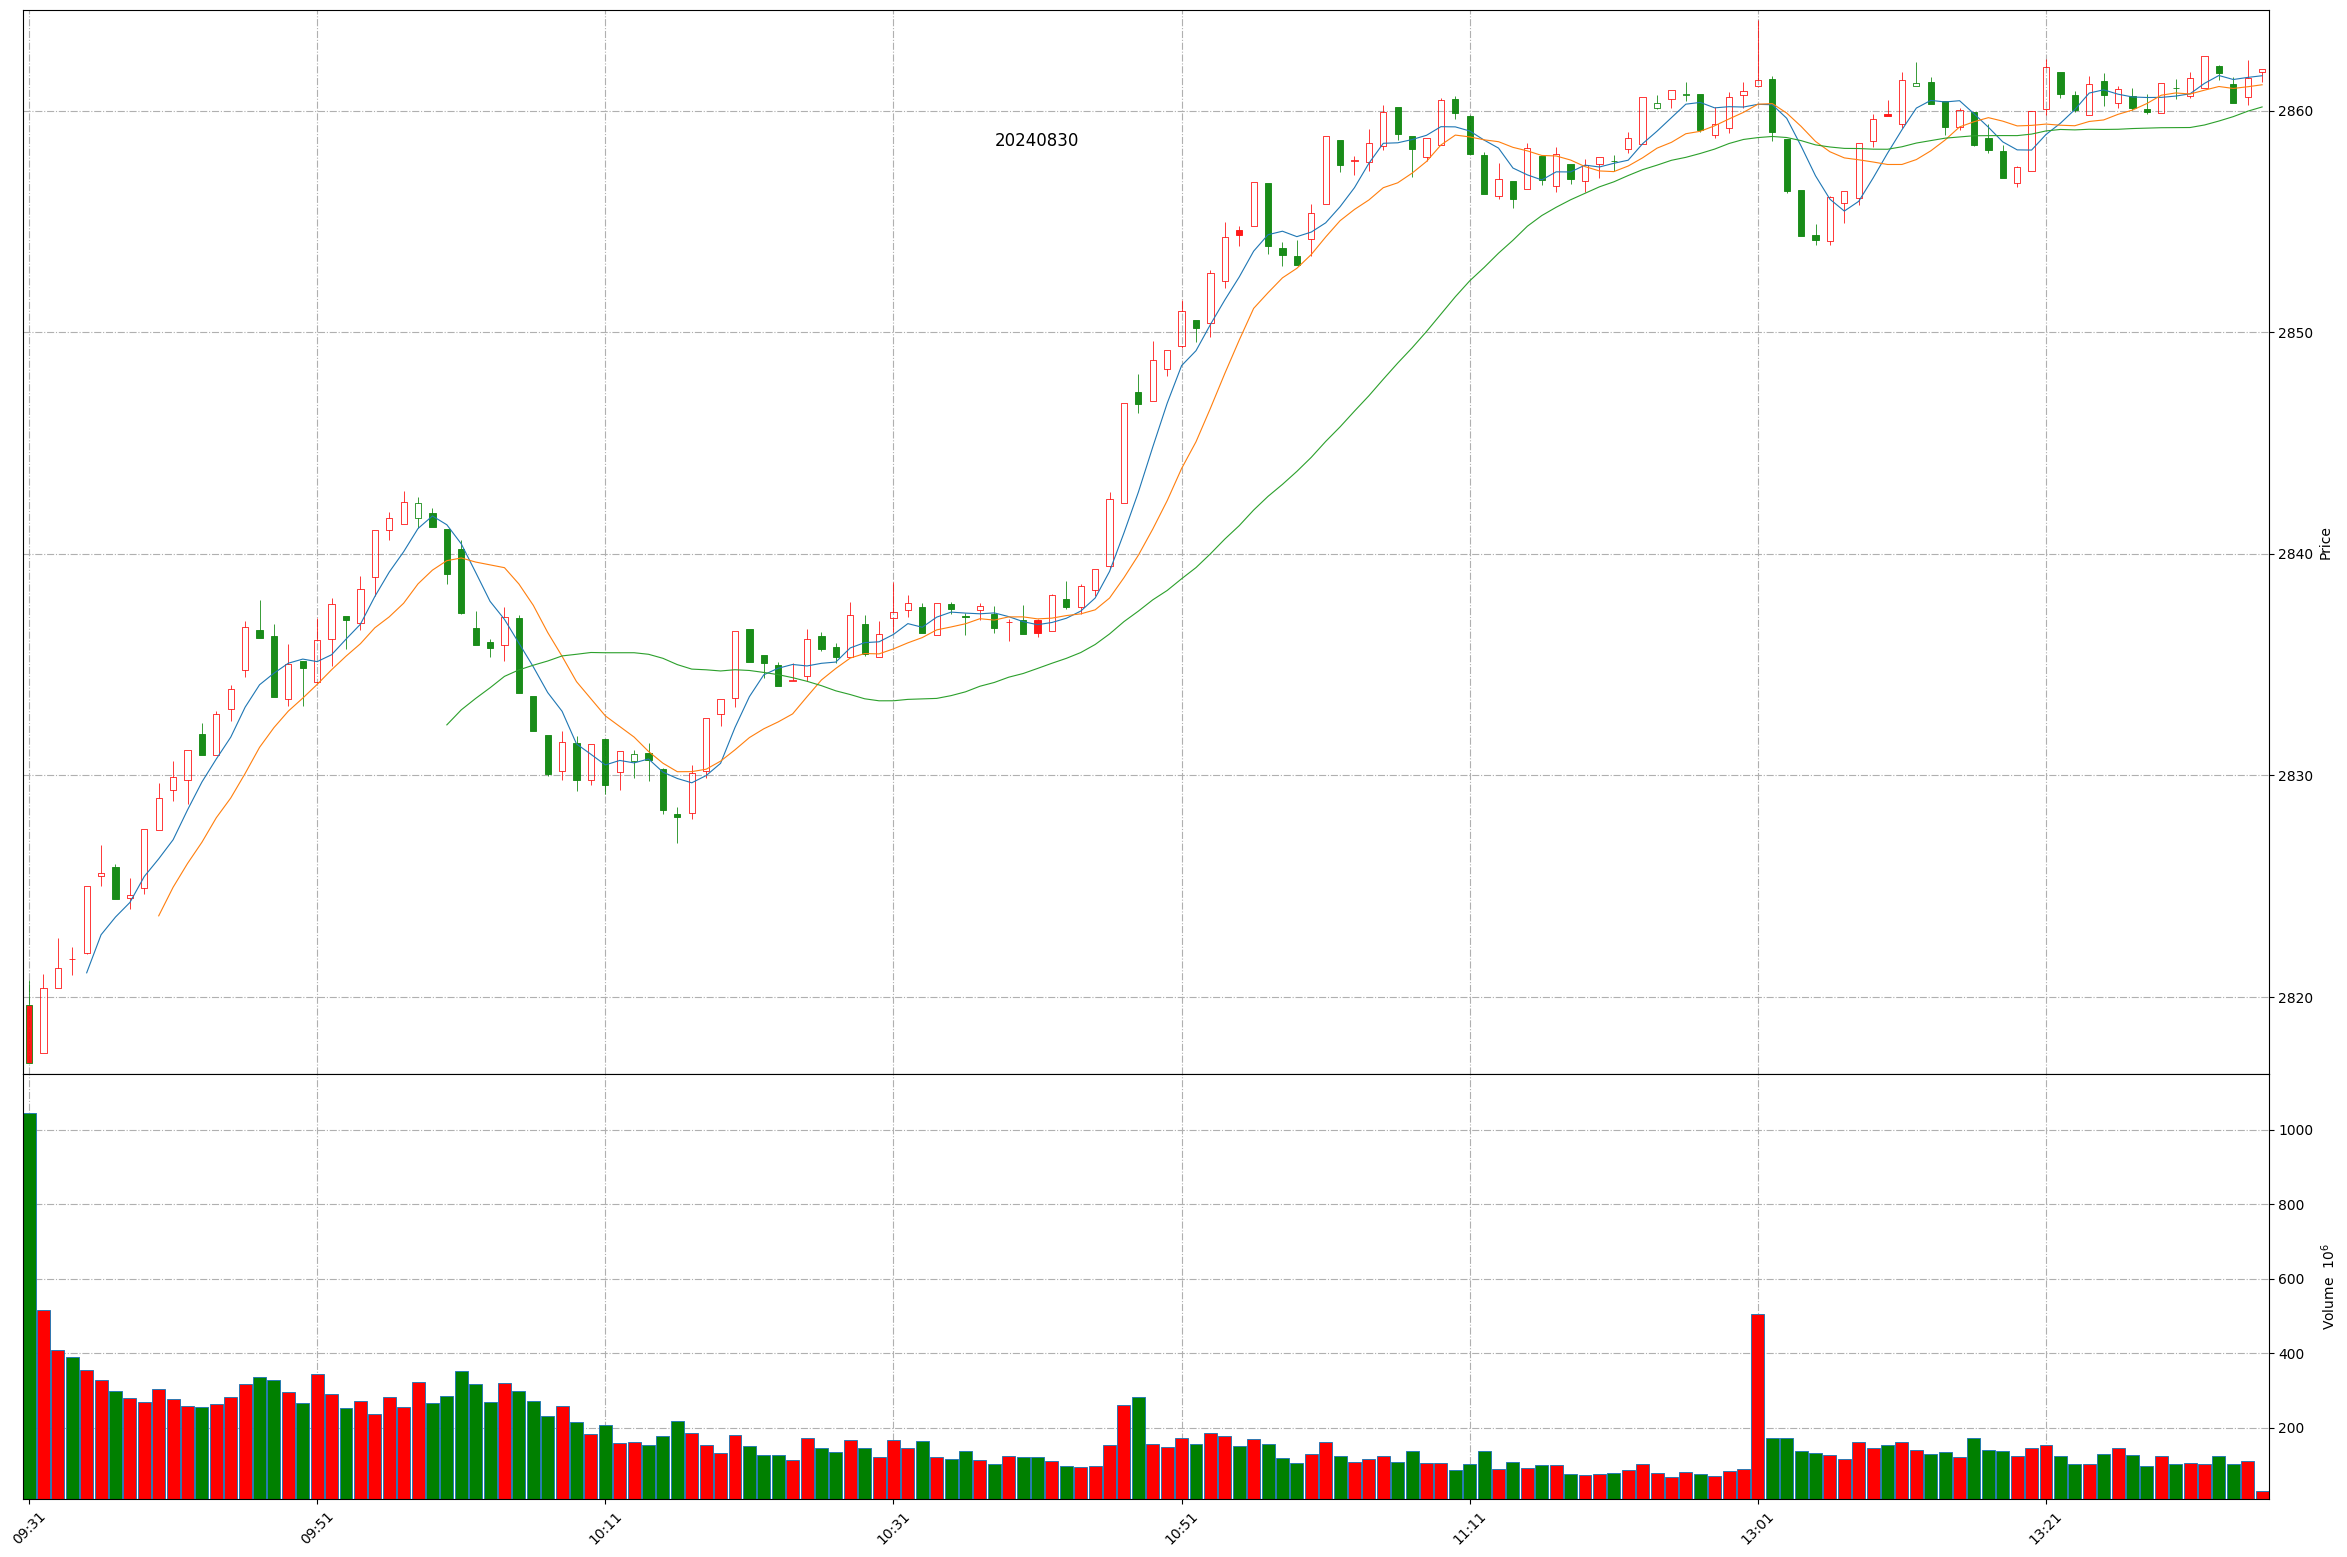
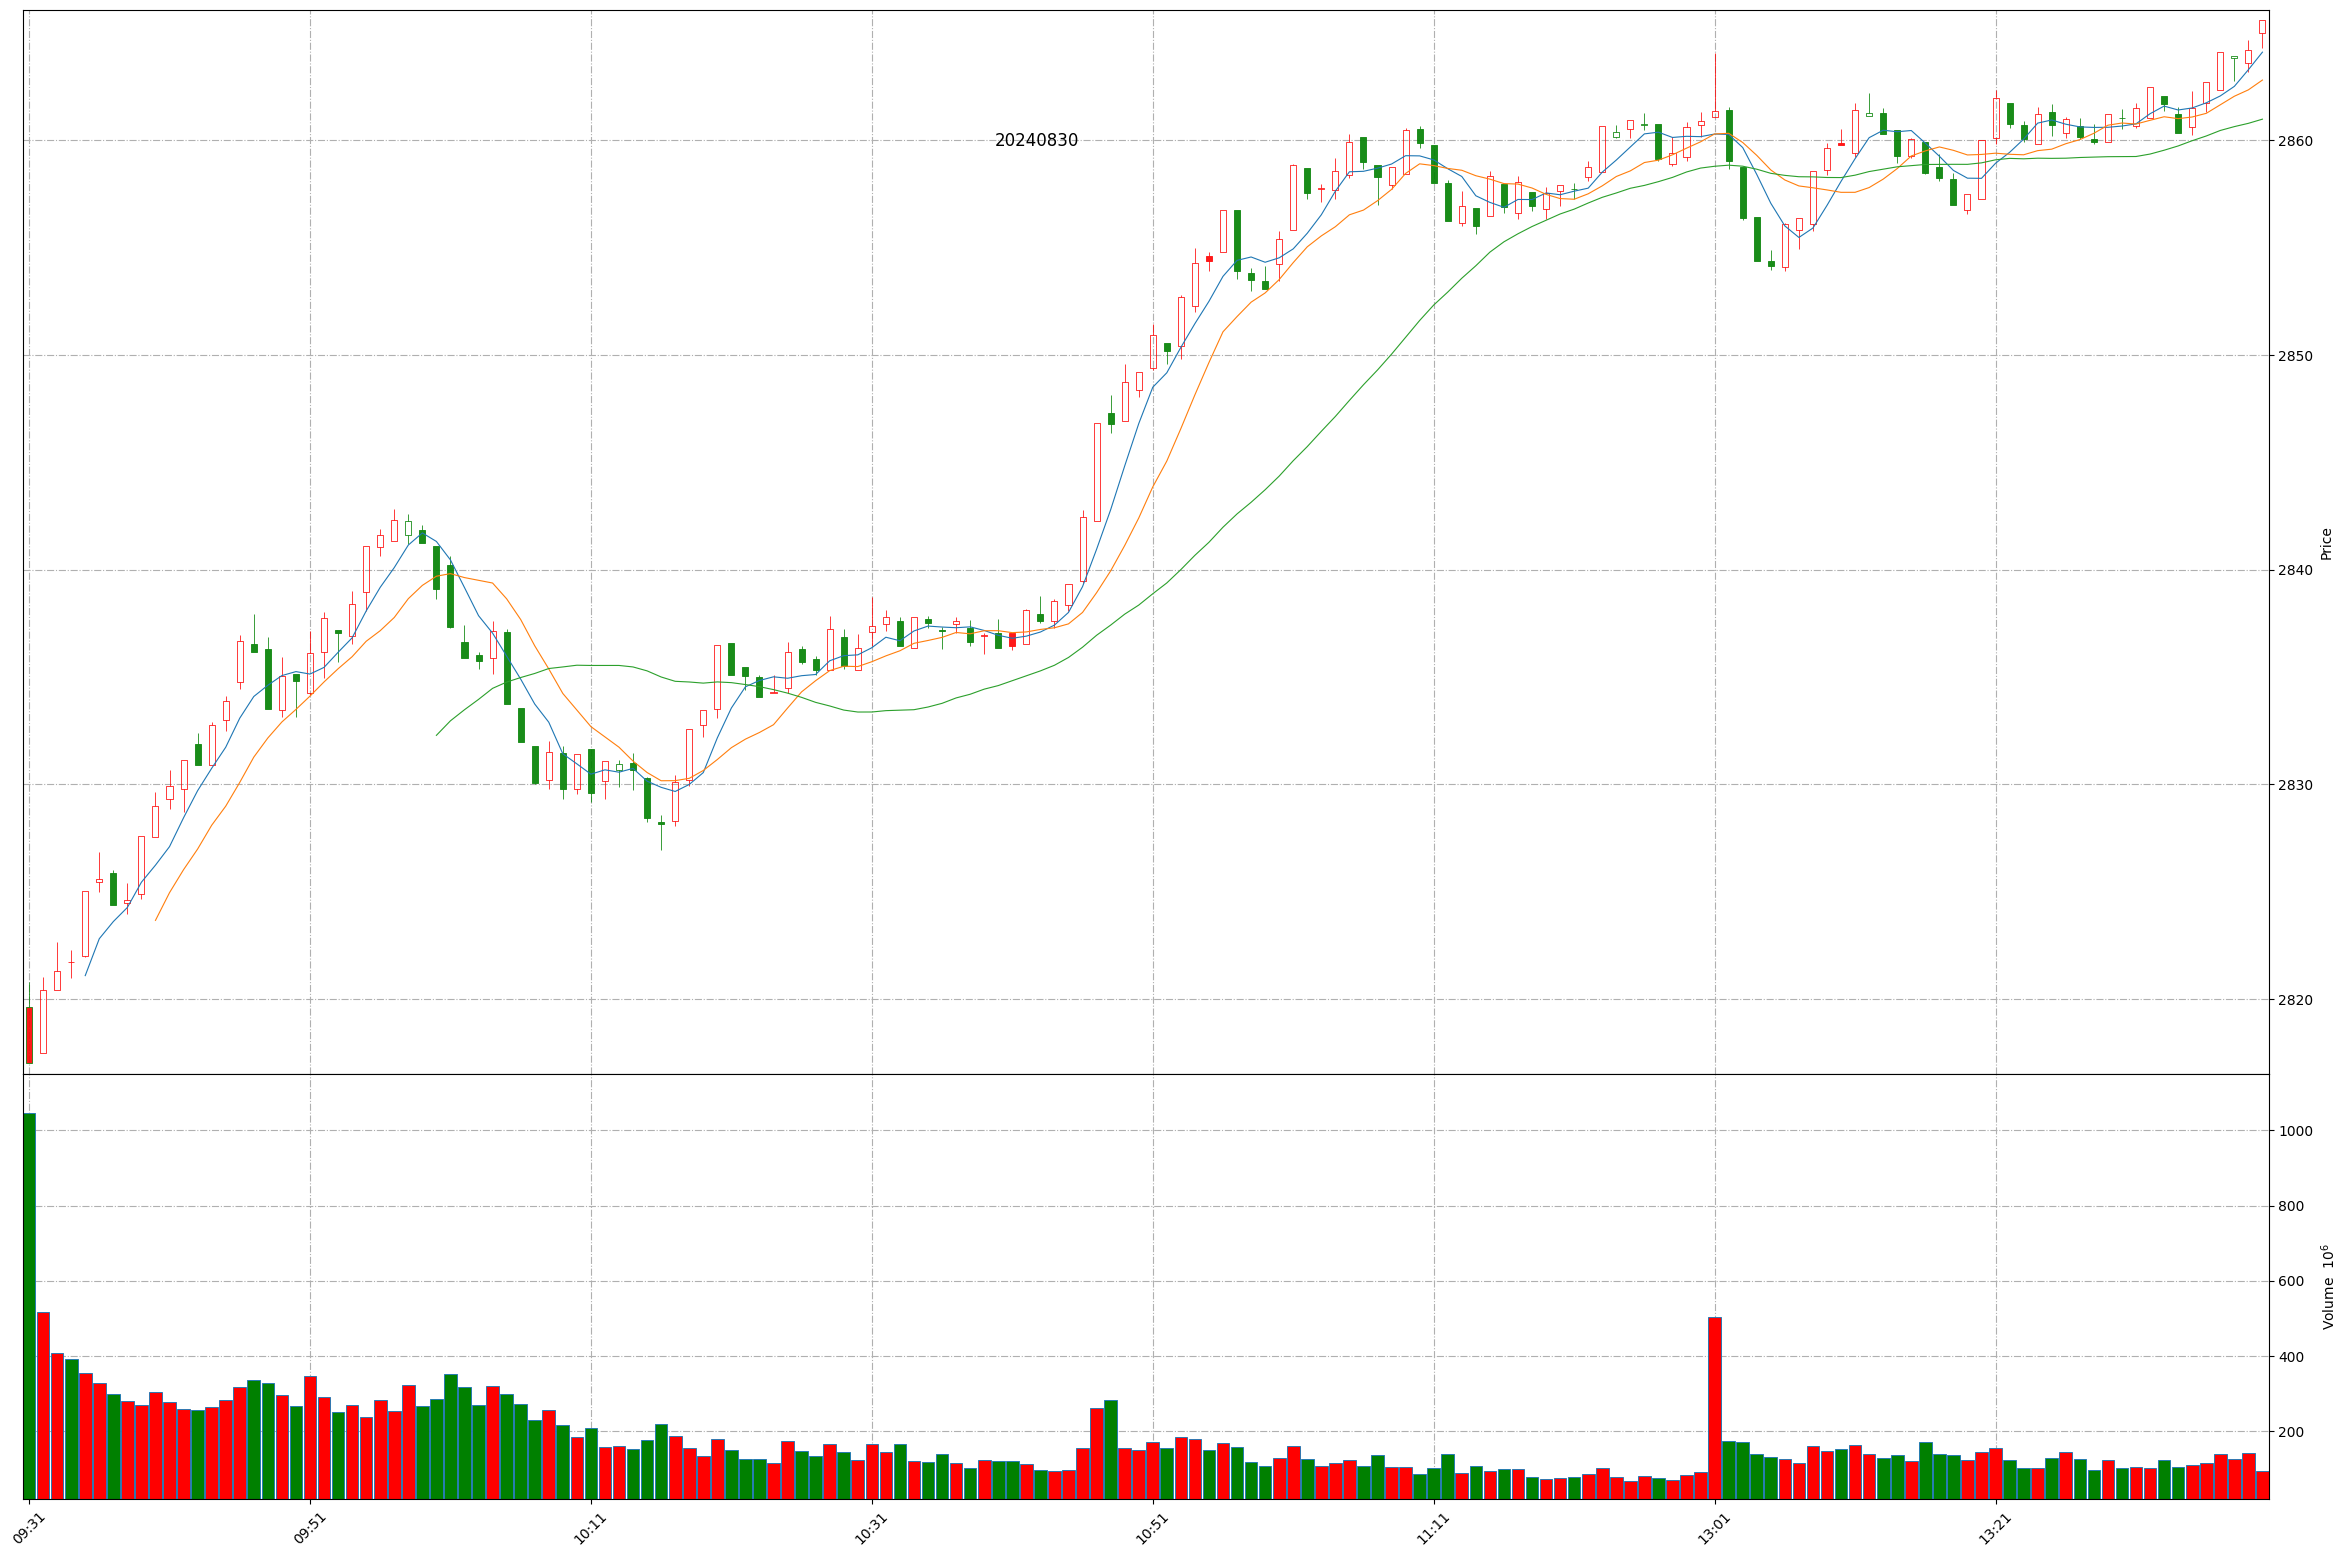
Github action update at 2024-08-30 13:40:01.

diff --git a/README.md b/README.md
@@ -1,11 +1,11 @@
 
 # Daily-A-share-market-quotes 每日 A 股指数（5min 更新）- 20240830
 
-### 上证指数 20240830 13:35
+### 上证指数 20240830 13:40
 ![](./fig/2024/8/20240830-sh000001.png)
 
-### 深证成指 20240830 13:35
+### 深证成指 20240830 13:40
 ![](./fig/2024/8/20240830-sz399001.png)
 
-### 北证50 20240830 13:35
+### 北证50 20240830 13:40
 ![](./fig/2024/8/20240830-bj899050.png)
